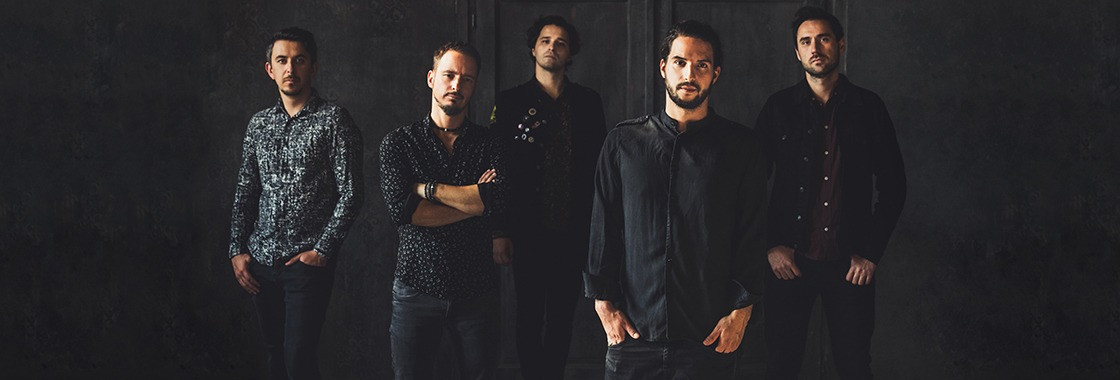
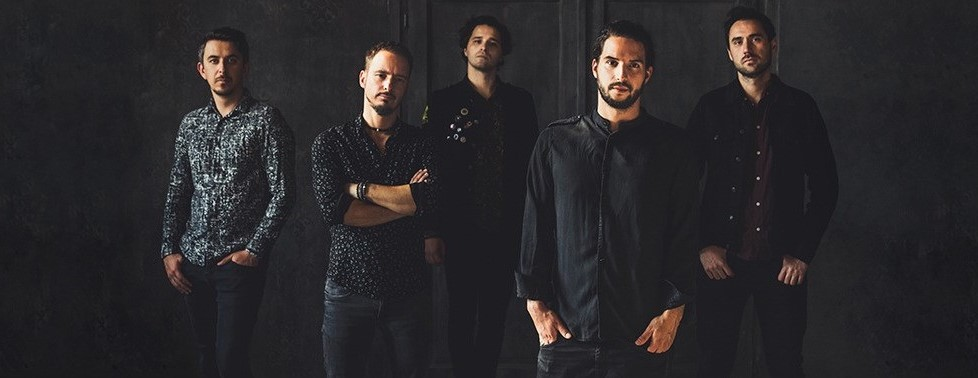
fejléc menüsorral létrehozva

diff --git a/bagossy_fan-weboldal.html b/bagossy_fan-weboldal.html
@@ -7,11 +7,22 @@
     <link rel="stylesheet" href="fanweb.css">
 </head>
 <body>
- <h1>Bagossy Brothers Company fanoldal</h1>
- <p id="keszito"><small> készítette: Kovács Sándor István</small></p>
- <hr>
- <img class="fokep" src="képek/Bagossy_csoportkép_dark.jpg" alt="A Bagossy Brothers Company bandatagjainak csoportképe" title="Bagossy Brothers Company tagjainak csoportképe" width="978" height="378">
- <h2>Ki is a Bagossy Brothers Company?</h2>
+    <h1>Bagossy Brothers Company fanoldal</h1>
+<div id="fejlec">
+    <img src="képek/Bagossy_csoportkép_dark.jpg" alt="A Bagossy Brothers Company bandatagjainak csoportképe" title="Bagossy Brothers Company tagjainak csoportképe">
+    <div id="menu">
+        <ul>
+            <li><a href="#roluk">róluk</a></li>
+            <li><a href="#tagok">tagok</a></li>
+            <li><a href="#slagerek">slágerek</a></li>
+            <li><a href="#oldalaik">oldalaik</a></li>
+        </ul>
+    </div>
+</div>
+<p id="keszito"><small> készítette: Kovács Sándor István</small></p>
+<hr>
+<h2 id="roluk">Ki is a Bagossy Brothers Company?</h2>
+<img src="Képek/bagossy_header.jpeg" alt="BBC esti csoportképe" title="BBC esti csoportképe">
  <p>A <b>Bagossy Brothers Company</b>  2013-ban alakult indie rock, alternatív rock, folk-rock stílusú zenét játszó, <del>román</del> <mark>erdélyi  magyar zenekar.</mark> </p>
  <p>A zenekar az <strong> "Olyan Ő"</strong> című számával vált híressé, mely több mint <em>30 millió</em> megtekintéssel rendelkezik a YouTube-on!</p>
  <p>Íme e híres dal refrénje:</p>
@@ -21,7 +32,7 @@
     Most olyan édes<br>
     Hogy egy élet<br>
     Kevés lenne rá."<br></i></p></div>
-<h2>Tagok listája:</h2>
+<h2 id="tagok">Tagok listája:</h2>
 <ol>
     <li>Bagossy Norbert</li>
     <li>Bagossy László</li>
@@ -29,7 +40,7 @@
     <li>Tatár Attila</li>
     <li>Kozma Zsombor</li>
 </ol>
-<h2>Legismertebb slágereik:</h2>
+<h2 id="slagerek">Legismertebb slágereik:</h2>
 <p>Az egyes számokra kattintva megtekintheted azok dalszövegét, borítóképét és YouTube linkjét!</p>
 <ul>
     <li><a href="Dalszövegek/Van egy ház.html">Van egy ház (2015)</a> <a href="Dalszövegek/Van egy ház.html#refr"><sub>Ugrás a dal refrénjére</sub></a></li>
@@ -75,7 +86,7 @@
         <td>Veled utazom</td>
     </tr>
 </table>
-<h2>Weboldalaik</h2>
+<h2 id="oldalaik">Weboldalaik</h2>
 <ul class="pagelist">
     <li><a href="https://bagossybrotherscompany.com/">A hivatalos weboldaluk</a></li>
     <li><a href="https://www.facebook.com/bagossybrothers" target="_blank">Facebook oldaluk</a></li>
@@ -88,7 +99,5 @@
     <li><a href="https://music.apple.com/hu/artist/bagossy-brothers-company/843201384?l=hu" target="_blank">Apple Music-on!</a></li>
     <li><a href="https://music.youtube.com/channel/UCM2JEoNL_iaZoKhIaTzfZHw" target="_blank">YouTube Music-on!</a></li>
 </ul>
-<br>
-<a href="#indexback">Ugrás a weboldal tetejére</a>
 </body>
 </html>

diff --git a/fanweb.css b/fanweb.css
@@ -1,13 +1,12 @@
 body {
     background-color: whitesmoke;
-    color: #2A3E4D;
     font-family:'Segoe UI', Tahoma, Geneva, Verdana, sans-serif;
     font-size: 12pt;
-    margin: 20px 220px;
     background: url(Képek/Bagossy_logo.jpg) left repeat-y, url(képek/Bagossy_logo.jpg) right repeat-y;
 }
 
 h1 {
+    color:rgb(156, 113, 4);
     text-align: center;
     font-size: 250%;
 }
@@ -26,13 +25,6 @@ h2, h3 {
     letter-spacing: 5px;
 }
 
-.fokep {
-    display: block;
-    margin: auto;
-    max-width: 95%;
-    height: auto;
-}
-
 #olyano {
     background-color: hsla(30, 59%, 53%, 0.4);
     height: fit-content;
@@ -42,4 +34,37 @@ h2, h3 {
 
 .pagelist {
     list-style-image: url('music-note.png');
+}
+
+#fejlec {
+    text-align: center;
+    width: auto;
+    margin: -10px 192px;
+}
+
+#fejlec ul {
+    background-color: #242424;
+    text-align: center;
+    list-style-type: none;
+    padding: 0;
+    overflow: hidden;
+}
+
+#fejlec li {
+    display: inline;
+}
+
+#fejlec li a{
+        display: inline-block;
+        color: goldenrod;
+        text-align: center;
+        text-transform: uppercase;
+        text-decoration: none;
+        font-family: "Times New Roman", Times, serif;
+        font-size: 16pt;
+        padding: 20px 50px;
+}
+
+#fejlec li a:hover {
+    background-color: indigo;
 }
